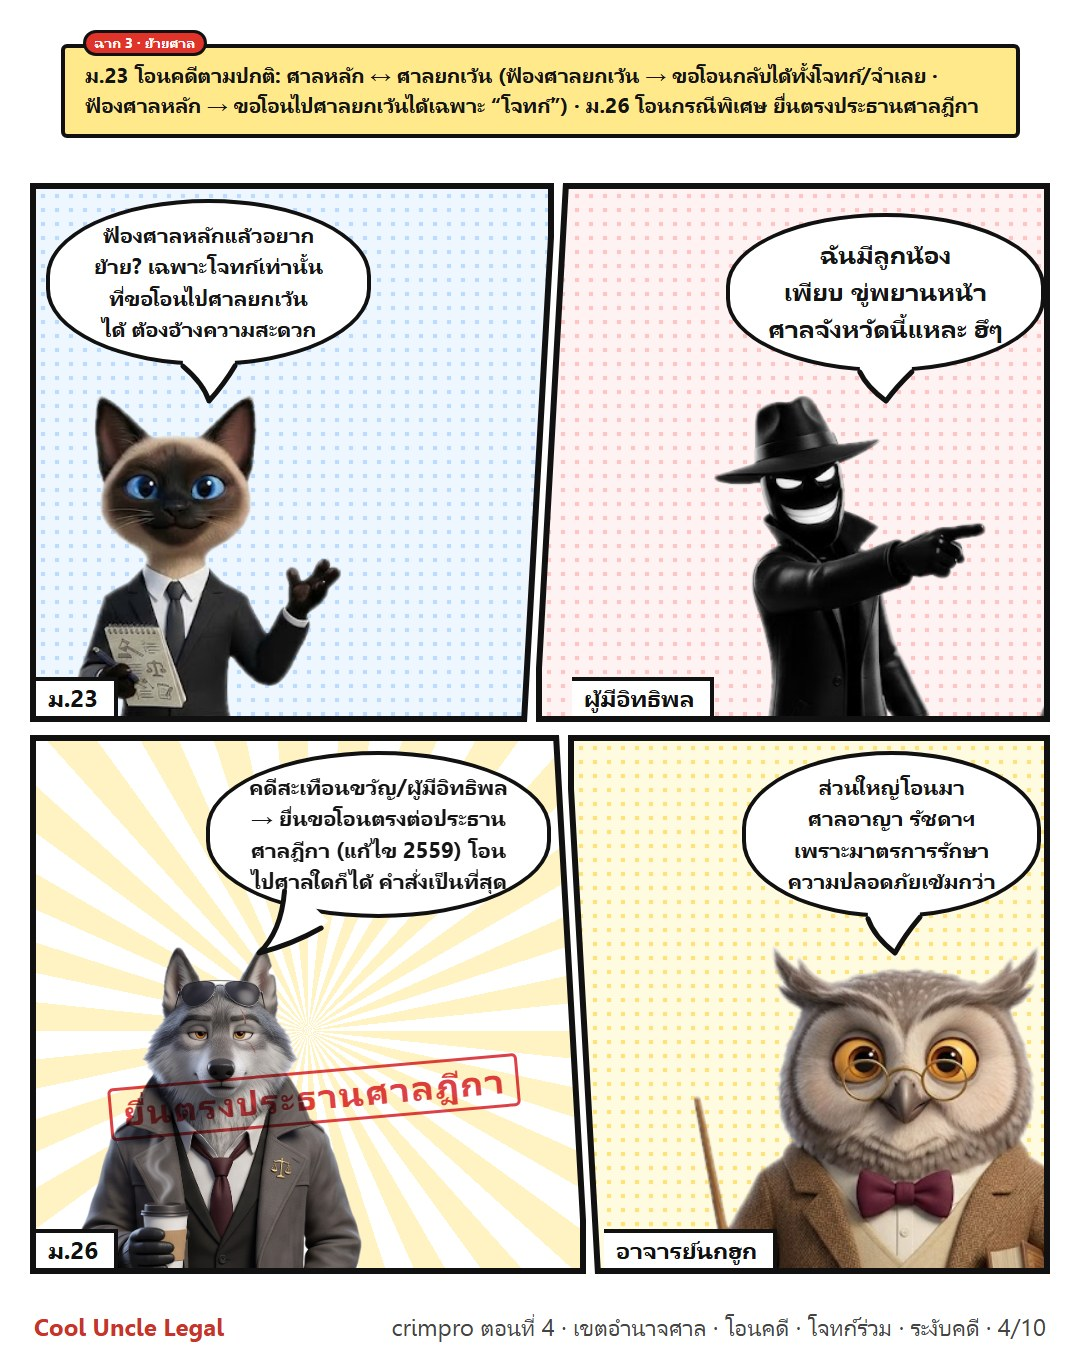
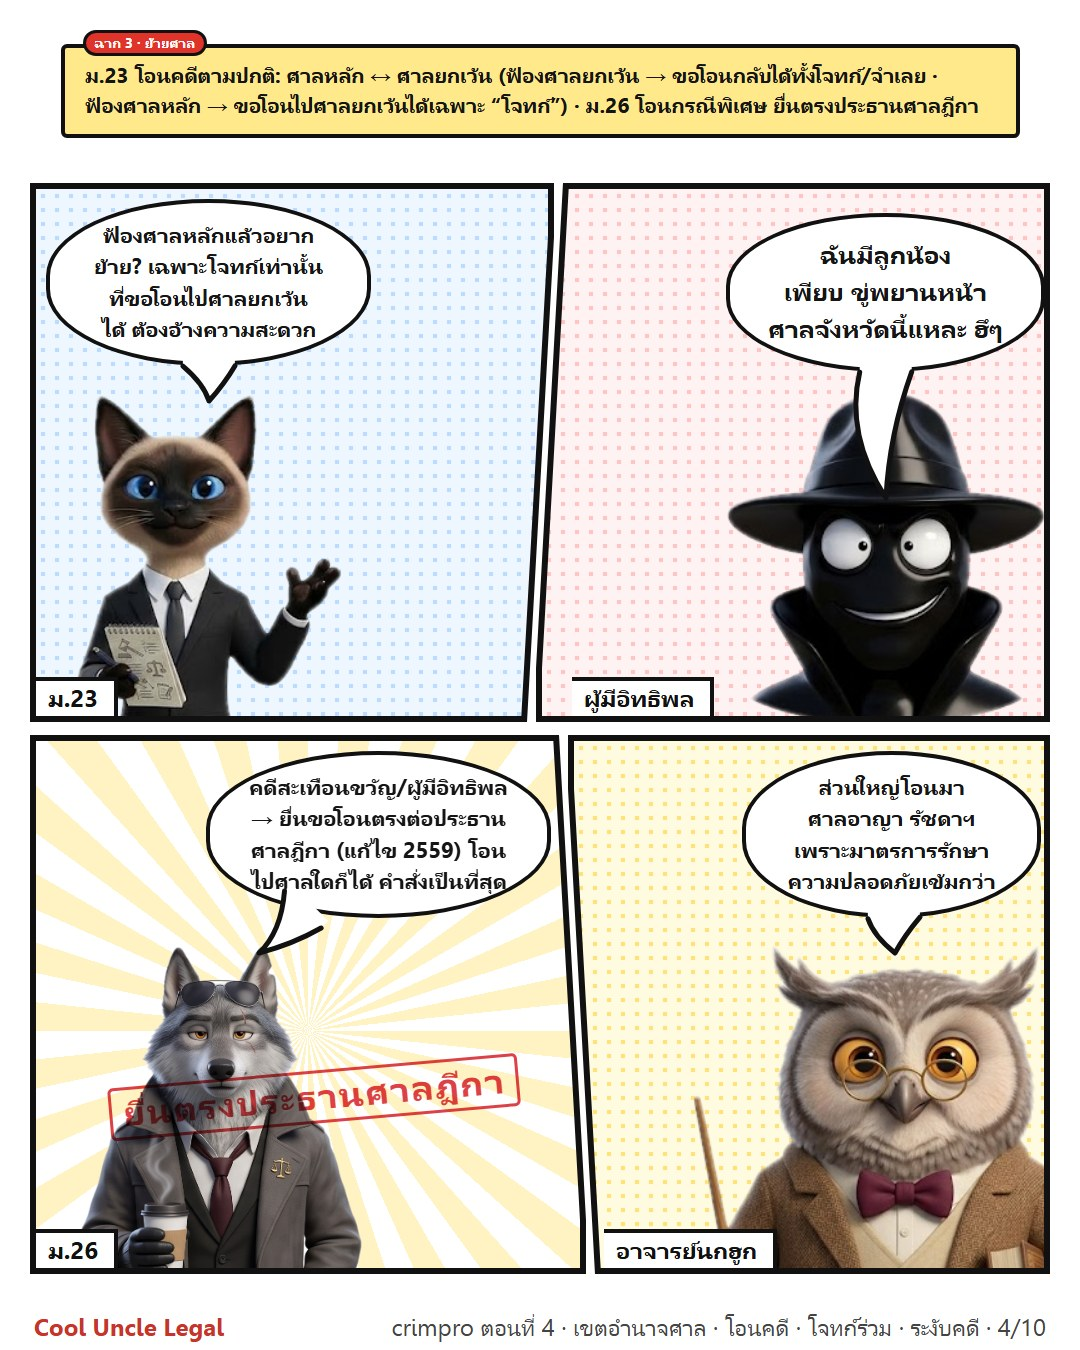
crimpro EP.02-05: Hannin-san evil expression sheet (4x2 grid support), refreshed pages

Changed region(s): [[0.6722, 0.28, 0.9778, 0.5289]]

diff --git a/crimpro.html b/crimpro.html
@@ -2616,7 +2616,7 @@ function renderComics(){
       if(it.n) return '<div class="cc-narr"><b class="cc-narr-who">🎙 ผู้บรรยาย</b>' + L(it.n) + (it.list ? '<ul>' + it.list.map(x => '<li>' + L(x) + '</li>').join('') + '</ul>' : '') + (it.after ? '<div style="margin-top:6px">' + L(it.after) + '</div>' : '') + '</div>';
       return '';
     }).join('')).join('');
-    const gallery = c.pages ? '<div class="cc-pages">' + c.pages.map((p, i) => '<a href="' + p + '?v=6" target="_blank" rel="noopener"><img src="' + p + '?v=6" alt="EP.' + c.ep + ' หน้า ' + (i + 1) + '" loading="lazy"></a>').join('') + '</div>' : '';
+    const gallery = c.pages ? '<div class="cc-pages">' + c.pages.map((p, i) => '<a href="' + p + '?v=7" target="_blank" rel="noopener"><img src="' + p + '?v=7" alt="EP.' + c.ep + ' หน้า ' + (i + 1) + '" loading="lazy"></a>').join('') + '</div>' : '';
     const s = c.summary;
     const sum = !s ? '' : '<div class="cc-sum"><h4>📌 Concept</h4><div>' + L(s.concept) + '</div><h4>⚖ ตัวบทที่เกี่ยวข้อง</h4><ol>' + s.laws.map(x => '<li>' + L(x) + '</li>').join('') + '</ol><h4>💡 จำง่าย ๆ</h4><ul style="list-style:none;margin-left:2px">' + s.mnemonic.map(x => '<li>' + escC(x) + '</li>').join('') + '</ul></div>';
     return '<div class="cc-ep' + (c.ep === 1 ? ' open' : '') + '" id="cc-ep-' + c.ep + '"><div class="cc-ep-head" onclick="this.parentNode.classList.toggle(\'open\');playHoverSound()"><div class="cc-ep-badge">EP.' + String(c.ep).padStart(2, '0') + '</div><div class="cc-ep-title">' + escC(c.title) + '<small>' + escC(c.sub) + '</small></div><div class="lecture-toggle">▾</div></div><div class="cc-ep-body">' + gallery + (gallery ? '<details class="cc-textscript"><summary>📜 บทแบบข้อความ (อ่านเร็ว / ค้นหาได้)</summary>' + scenes + '</details>' : scenes) + sum + '</div></div>';

diff --git a/comics/crimpro/ep05/source/_gen_crimpro_005.py b/comics/crimpro/ep05/source/_gen_crimpro_005.py
@@ -105,7 +105,7 @@ pages.append({"rows": [
     R(1.3, [
         P(HT("#eef7ff", "#bcdcff"), [C("ct", None, 50, 90, shot="half")],
           [S("ฟ้องซ้ำต้องครบ 3 ข้อ: จำเลยคนเดียวกัน · กรรมเดียวกัน · มีคำพิพากษาเสร็จเด็ดขาด", "ct")], w=1.3, cap="3 องค์ประกอบ"),
-        P(HT("#fff2f2", "#ffc4c4"), [C("cu", None, 50, 88, shot="half", view=0)],
+        P(HT("#fff2f2", "#ffc4c4"), [C("cu", "grin", 50, 62)],
           [S("ศาลตัดสินฉันแล้วนะ จะฟ้องใหม่ปรับบทมาตราอื่นก็ไม่ได้ ฮึๆ", "cu")], w=1.3, cap="ฮันนินซัง")], slant=30),
     R(1.3, [
         P(FOCUS(50, 50), [C("cp", None, 50, 90, shot="half")],
@@ -138,7 +138,7 @@ pages.append({"rows": [
         P(FOCUS(50, 50), [C("as", None, 50, 90, shot="half")],
           [S("ไม่ได้! พยานต้องมา ให้ถ้อยคำ และให้ถ้อยคำจริง ไม่มา = ผิดขัดคำสั่งเจ้าพนักงาน", "as", t="shout", size=26)], w=1.4, cap="ตำรวจนายพันธุ์")], slant=30),
     R(1.3, [
-        P(HT("#fffbe0", "#ffe27a"), [C("cu", None, 50, 88, shot="half", view=0)],
+        P(HT("#fffbe0", "#ffe27a"), [C("cu", "smirk", 50, 62)],
           [S("ฉันเป็นผู้ต้องหา ไม่ไปก็ไม่ผิดฐานขัดคำสั่ง… แต่ขัดสองครั้ง เขาขอหมายจับฉัน", "cu")], w=1.5, cap="ผู้ต้องหา"),
         P(RAYS("#fff", "#dff5d8", 50, 55, 6), [C("un", None, 50, 90, shot="half")],
           [S("ถ้ามา → ตอบแค่ชื่อกับที่อยู่จริง คำถามเนื้อหามีสิทธิไม่ให้การ (right to silence)", "un")], w=1.5, cap="ลุงคูล")], slant=-30)]})
@@ -184,7 +184,7 @@ pages.append({"rows": [
         P(HT("#fffbe0", "#ffe27a"), [C("ct", None, 50, 90, shot="half")],
           [S("ม.80 ว.2: ถือว่าซึ่งหน้า ถ้าฐานอยู่ในบัญชีท้าย + มีร้องไล่จับ/พบทันทีพร้อมพิรุธ/ของกลาง", "ct")], w=1.5, cap="ถือว่าซึ่งหน้า")], slant=30),
     R(1.3, [
-        P(HT("#fff2f2", "#ffc4c4"), [C("cu", None, 50, 88, shot="half", view=2)],
+        P(HT("#fff2f2", "#ffc4c4"), [C("cu", "laugh", 50, 62)],
           [S("ฉันแค่พกเครื่องมือเดินเล่นกลางดึก…", "cu")], w=1.1, cap="พฤติการณ์ควรสงสัย"),
         P(RAYS("#fff", "#dff5d8", 50, 55, 6), [C("rt", None, 50, 90, shot="half")],
           [S("แบบนี้ก็สกัดก่อนลงมือได้ ม.78(2) ครับ!", "rt", t="shout", size=26)], w=1.1, cap="ตำรวจนายล่ำ")], slant=-30)]})
@@ -198,7 +198,7 @@ pages.append({"rows": [
         P(HT("#fff2f2", "#ffc4c4"), [C("gj", None, 50, 90, shot="half")],
           [S("แต่เห็นคนขายยาบ้าซึ่งหน้า หนูจับไม่ได้ เพราะไม่อยู่ในบัญชีท้ายค่ะ", "gj")], w=1.4, cap="ยาเสพติด จับไม่ได้")], slant=30),
     R(1.3, [
-        P(HT("#fffbe0", "#ffe27a"), [C("cu", None, 50, 88, shot="half", view=2)],
+        P(HT("#fffbe0", "#ffe27a"), [C("cu", "sneer", 50, 62)],
           [S("วิ่งเข้าบ้านคนอื่นก็ตามมาไม่ได้หรอก ฮึๆ", "cu")], w=1.2, cap="วิ่งเข้าบ้าน"),
         P(FOCUS(50, 50), [C("un", None, 50, 90, shot="half")],
           [S("ใช่ ราษฎรตามเข้าไปจับ = ผิดฐานบุกรุก ไม่มีสิทธิค้นที่รโหฐานเด็ดขาด", "un")], w=1.4, cap="ลุงคูล")], slant=-30)]})

diff --git a/comics/crimpro/ep03/source/_gen_crimpro_003.py b/comics/crimpro/ep03/source/_gen_crimpro_003.py
@@ -108,7 +108,7 @@ pages.append({"rows": [
         P(RAYS("#fff", "#fff3c4", 50, 55, 6), [C("rt", None, 50, 90, shot="half")],
           [S("ส่วนผมสืบสวนได้ทั่วประเทศ… แต่ผมสอบสวนเองไม่ได้ ฮือ (กินโดนัท)", "rt")], w=1.3, cap="ตำรวจนายล่ำ")], slant=30),
     R(1.3, [
-        P(HT("#fff2f2", "#ffc4c4"), [C("rt", None, 28, 80, shot="half"), C("cu", None, 74, 72, shot="half", view=0)],
+        P(HT("#fff2f2", "#ffc4c4"), [C("rt", None, 28, 80, shot="half"), C("cu", "sneer", 74, 62)],
           [S("เห็นคนร้ายต่อหน้าแล้วเดินผ่านเฉย ๆ", "rt"), S("ฮึๆ ขอบใจนะ", "cu")], w=1.5, cap="เพิกเฉย = ผิด ม.157 ป.อ."),
         P(FOCUS(50, 50), [C("ct", None, 50, 90, shot="half")],
           [S("ตำรวจเห็นความผิดซึ่งหน้าแล้วเพิกเฉย อาจผิดฐานละเว้นตาม ป.อ. ม.157", "ct")], w=1.3, cap="แมวอธิบาย")], slant=-30)]})
@@ -127,7 +127,7 @@ pages.append({"rows": [
 pages.append({"rows": [
     BOX("ม.19 เกี่ยวพันหลายท้องที่ (ไม่แน่ใจที่เกิดเหตุ · ต่อเนื่องหลายท้องที่ · เกิดระหว่างเดินทาง ม.19(5)-(6)) → พนักงานสอบสวนทุกท้องที่ที่เกี่ยวข้องมีอำนาจร่วมกัน", "ฉาก 3 · หลายท้องที่", 23),
     R(1.2, [
-        P(HT("#fff2f2", "#ffc4c4"), [C("cu", None, 50, 90, shot="half", view=2)],
+        P(HT("#fff2f2", "#ffc4c4"), [C("cu", "scheme", 50, 62)],
           [S("ขโมยแล้วหนีข้ามอำเภอ ข้ามจังหวัด~", "cu")], w=1, cap="ฮันนินซัง"),
         P(RAYS("#fff", "#fff3c4", 50, 55, 6), [C("as", None, 50, 90, shot="half")],
           [S("ไม่รู้ว่าเกิดเหตุที่ไหนแน่? ทุกท้องที่ที่เกี่ยวข้องสอบสวนได้ครับ", "as")], w=1.3, cap="ม.19")], slant=30),
@@ -165,7 +165,7 @@ pages.append({"rows": [
 pages.append({"rows": [
     BOX("ม.20 ความผิดนอกราชอาณาจักร (ป.อ. ม.4 ว.2, 5–9) → อัยการสูงสุดรับผิดชอบหลัก · กรณีคาบเกี่ยว (ทำในไทยผลเกิดนอกประเทศ/กลับกัน) ปัจจุบันเข้า ม.20 ทั้งหมด", "ฉาก 6 · ข้ามแดน", 23),
     R(1.3, [
-        P(RAYS("#fff", "#dfe9ff", 50, 60, 6), [C("cu", None, 50, 90, shot="half", view=2)],
+        P(RAYS("#fff", "#dfe9ff", 50, 60, 6), [C("cu", "giggle", 50, 62)],
           [S("หนีข้ามประเทศแล้ว~ ตำรวจไทยตามไม่ถึงหรอก", "cu")], w=1.1, cap="ฮันนินซัง"),
         P(HT("#eef7ff", "#bcdcff"), [C("cp", None, 50, 90, shot="half")],
           [S("ต้องให้อัยการสูงสุดรับผิดชอบ และขอความร่วมมือระหว่างประเทศ (MLAT) ครับ", "cp")], w=1.4, cap="กะปิ")], slant=30),

diff --git a/comics/crimpro/ep02/source/_gen_crimpro_002.py b/comics/crimpro/ep02/source/_gen_crimpro_002.py
@@ -108,7 +108,7 @@ pages.append({"rows": [
         P(RAYS("#fff", "#dff5d8", 50, 55, 6), [C("gk", None, 50, 90, shot="half")],
           [S("ผมล้างมือแล้วนะครับ… (น้ำในอ่างเป็นสีดำ)", "gk")], w=1.2, cap="จอจี้")], slant=30),
     R(1.3, [
-        P(HT("#fff2f2", "#ffc4c4"), [C("un", None, 28, 80, shot="half"), C("cu", None, 74, 72, shot="half", view=1)],
+        P(HT("#fff2f2", "#ffc4c4"), [C("un", None, 28, 80, shot="half"), C("cu", "grin", 74, 62)],
           [S("ยอมเสียดอกเบี้ยเกิน 15% มาแต่แรก… มือเปื้อนแล้วจ้ะ", "un"), S("ฮึๆๆ ตกลงกันเองนี่นา", "cu")], w=1.6, cap="ตามแนวฎีกา"),
         P(FOCUS(50, 50), [C("cp", None, 50, 90, shot="half")],
           [S("แม้ในทางปฏิบัติจะเสียเปรียบ ก็ฟ้องเองไม่ได้ครับ", "cp")], w=1.2, cap="กะปิ")], slant=-30)]})
@@ -119,7 +119,7 @@ pages.append({"rows": [
     R(1.2, [
         P(HT("#fff2f2", "#ffc4c4"), [C("un", None, 50, 90, shot="half")],
           [S("① ยินยอมให้ทำผิดเอง → ไม่ใช่ผู้เสียหาย ผู้จัดการแทนก็ไม่มีสิทธิกว่าตัวการ", "un")], w=1.2, cap="ข้อ 1"),
-        P(RAYS("#fff", "#fff3c4", 50, 55, 6), [C("cu", None, 50, 88, shot="half", view=1)],
+        P(RAYS("#fff", "#fff3c4", 50, 55, 6), [C("cu", "smirk", 50, 62)],
           [S("② จ่ายสินบนไปแล้วอยากได้คืน? ฟ้องไม่ได้นะ", "cu")], w=1, cap="ข้อ 2")], slant=30),
     R(1.35, [
         P(HT("#eef7ff", "#bcdcff"), [C("cone", None, 20, 52, shot="full", view=0), C("ct", None, 74, 86, shot="half")],
@@ -173,7 +173,7 @@ pages.append({"rows": [
 pages.append({"rows": [
     BOX("ผู้ต้องหา = ถูกกล่าวหาต่อพนักงานสอบสวน แต่ยังไม่ถูกฟ้อง · จำเลย = ถูกฟ้องต่อศาลแล้ว · อัยการฟ้อง → เป็นจำเลยทันที · ราษฎรฟ้อง → รอศาลประทับฟ้องก่อน", "ฉาก 6 · ผู้ต้องหา vs จำเลย", 23),
     R(1.3, [
-        P(HT("#fff2f2", "#ffc4c4"), [C("cuff", None, 24, 28, shot="full", view=3), C("cu", None, 70, 80, shot="half", view=0)],
+        P(HT("#fff2f2", "#ffc4c4"), [C("cuff", None, 24, 28, shot="full", view=3), C("cu", "laugh", 70, 62)],
           [S("ตำรวจกล่าวหาฉัน… ตอนนี้ฉันเป็น “ผู้ต้องหา”", "cu")], w=1.3, cap="ผู้ต้องหา"),
         P(RAYS("#fff", "#fff3c4", 50, 55, 6), [C("cp", None, 50, 90, shot="half")],
           [S("ผมฟ้องแล้วครับ → เปลี่ยนเป็น “จำเลย” ทันที", "cp", t="shout", size=28)], w=1.2, cap="อัยการเป็นโจทก์")], slant=30),

diff --git a/comics/crimpro/ep04/source/_gen_crimpro_004.py b/comics/crimpro/ep04/source/_gen_crimpro_004.py
@@ -130,7 +130,7 @@ pages.append({"rows": [
     R(1.3, [
         P(HT("#eef7ff", "#bcdcff"), [C("ct", None, 50, 90, shot="half")],
           [S("ฟ้องศาลหลักแล้วอยากย้าย? เฉพาะโจทก์เท่านั้นที่ขอโอนไปศาลยกเว้นได้ ต้องอ้างความสะดวก", "ct")], w=1.3, cap="ม.23"),
-        P(HT("#fff2f2", "#ffc4c4"), [C("cu", None, 50, 88, shot="half", view=1)],
+        P(HT("#fff2f2", "#ffc4c4"), [C("cu", "gleam", 50, 62)],
           [S("ฉันมีลูกน้องเพียบ ขู่พยานหน้าศาลจังหวัดนี้แหละ ฮึๆ", "cu")], w=1.2, cap="ผู้มีอิทธิพล")], slant=30),
     R(1.3, [
         P(RAYS("#fff", "#fff3c4", 50, 55, 6), [C("un", None, 50, 90, shot="half")],
@@ -174,7 +174,7 @@ pages.append({"rows": [
     R(1.3, [
         P(HT("#fffbe0", "#ffe27a"), [C("cp", None, 50, 90, shot="half")],
           [S("ขอถอนฟ้องก่อนจำเลยให้การ ศาลอนุญาตได้เลยครับ", "cp")], w=1.1, cap="ถอนก่อนให้การ"),
-        P(HT("#fff2f2", "#ffc4c4"), [C("cu", None, 50, 88, shot="half", view=0)],
+        P(HT("#fff2f2", "#ffc4c4"), [C("cu", "evil", 50, 62)],
           [S("ฉันบริสุทธิ์! ไม่ให้ถอน ขอให้ศาลยกฟ้องล้างมลทิน!", "cu")], w=1.2, cap="ถอนหลังให้การ · จำเลยคัดค้าน",
           stamps=[{"text": "ศาลต้องยกคำร้อง", "x": 50, "y": 64, "size": 38, "rot": -5}])], slant=30),
     R(1.3, [
